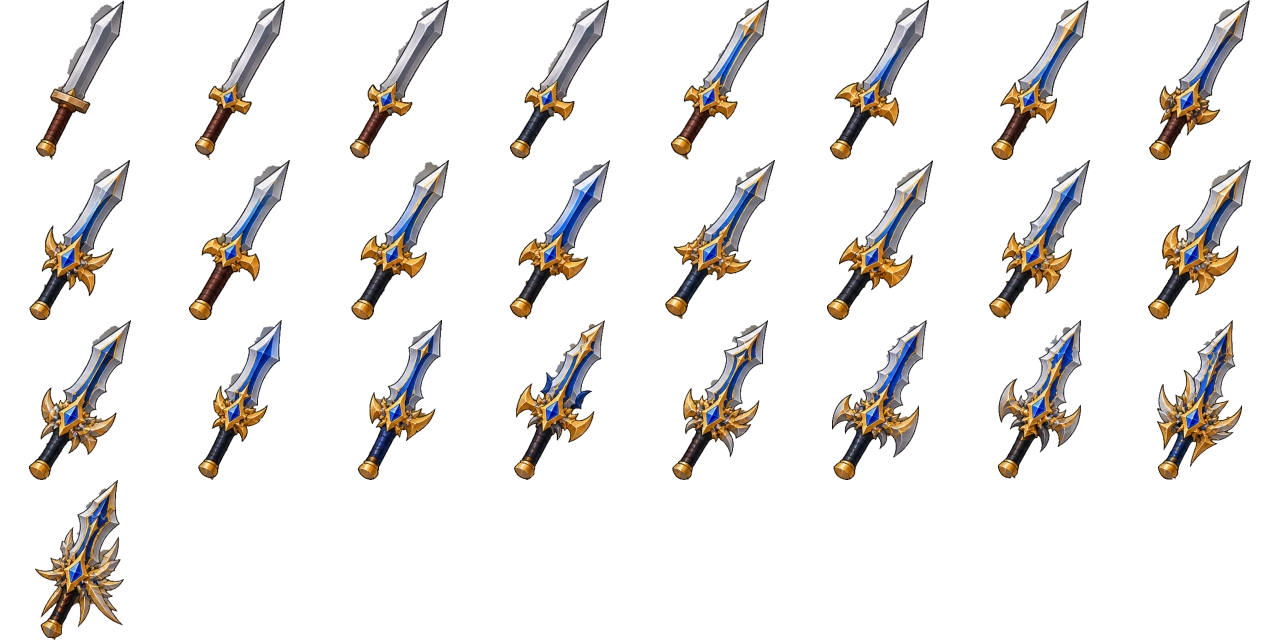
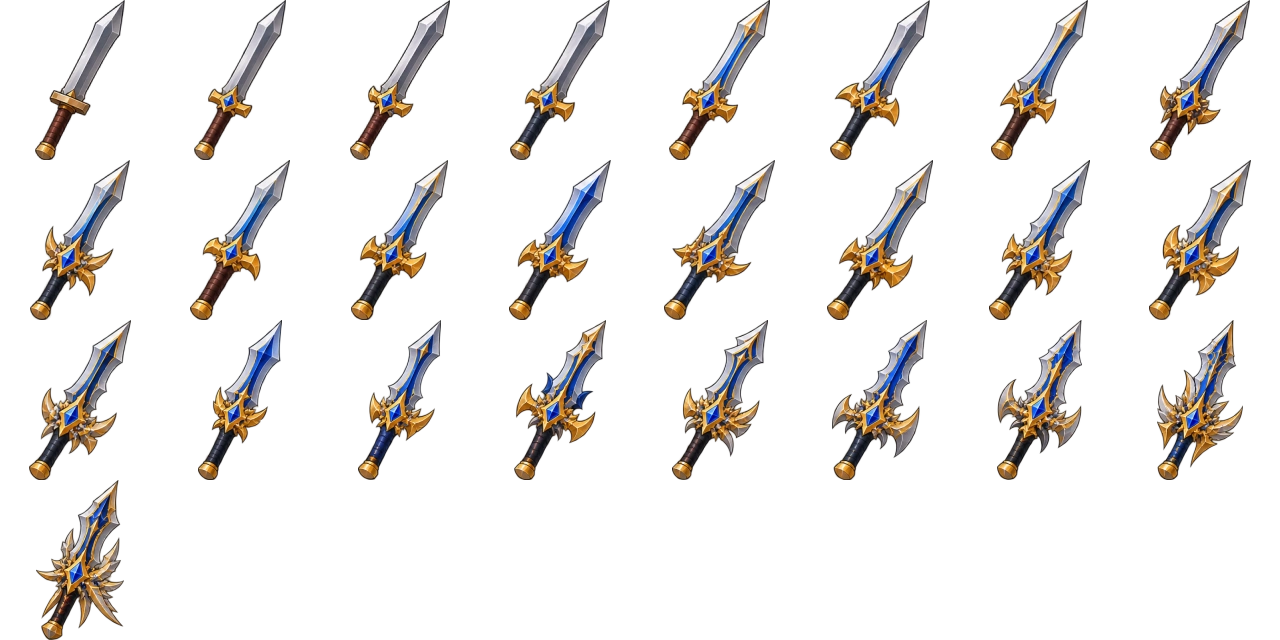
Epic swords: 23 from the epic sheet, Lv.45-70
The board's level plates are misnumbered (two 52s, two 63s, two 69s, a
63 between 57 and 58), so the ladder follows the board's order, which is
the order the art grows in. An epic sword is the common sword of its
level plus 40% ATK (rare is 20%), a faster swing, more crit and
STR/AGI/DEX. They only drop: monsters carry the epics a few levels around
their own at 0.03%, bosses at 10%.

The epic board, and the rare one before it, came with an alpha matte;
the slicer now cuts along it instead of against the painted background,
which also clears the grey haze that sat by the rare blades' tips. A
sword is matched to the plate it ends at, so a tall one from the row
below is no longer taken for the one above it.

Claude-Session: https://claude.ai/code/session_01GHEvd1DiTaDeXZuyLJzC1x

diff --git a/shared/data/items.js b/shared/data/items.js
@@ -321,6 +321,43 @@ export const RARE_SWORDS = {
 };
 Object.assign(ITEMS, RARE_SWORDS);
 
+/* ============ EPIC SWORDS (assets/ui/source/swords_epic.png) ============
+   Twenty-three epic swords, Lv.45 to Lv.70. The board's own level plates are
+   misnumbered (two 52s, two 63s, two 69s, a 63 between 57 and 58), so the
+   ladder follows the board's order, left to right and down, which is also
+   the order the art grows in. An epic sword is the common sword of its level
+   plus two fifths more ATK (a rare one is a fifth), a faster swing, more crit
+   and STR/AGI/DEX. Found only: rarer than rare on the field, a bigger share
+   of a boss's pouch. */
+const EPIC_SWORD = (art, o) => W({ art: 'swords_epic#' + art, wclass: 'sword', range: 47, rarity: 'epic',
+  weight: 46 + Math.round(o.level * 0.6), ...o });
+export const EPIC_SWORDS = {
+  sword_epic_45: EPIC_SWORD(0, { id: 'sword_epic_45', name: 'Amethyst Edge', nameTh: 'ดาบคมอเมทิสต์', level: 45, atk: 98, delay: 0.8, value: 88200, crit: 4, stats: { str: 4, agi: 2, dex: 1 } }),
+  sword_epic_46: EPIC_SWORD(1, { id: 'sword_epic_46', name: 'Violet Oath', nameTh: 'ดาบคำสัตย์ม่วง', level: 46, atk: 99, delay: 0.8, value: 91080, crit: 4, stats: { str: 4, agi: 2, dex: 1 } }),
+  sword_epic_47: EPIC_SWORD(2, { id: 'sword_epic_47', name: 'Duskfang', nameTh: 'ดาบเขี้ยวสนธยา', level: 47, atk: 100, delay: 0.8, value: 94000, crit: 4, stats: { str: 4, agi: 2, dex: 1 } }),
+  sword_epic_48: EPIC_SWORD(3, { id: 'sword_epic_48', name: 'Nightbloom', nameTh: 'ดาบบุปผาราตรี', level: 48, atk: 102, delay: 0.8, value: 97920, crit: 4, stats: { str: 4, agi: 2, dex: 1 } }),
+  sword_epic_50: EPIC_SWORD(4, { id: 'sword_epic_50', name: 'Voidguard', nameTh: 'ดาบองครักษ์ห้วงมืด', level: 50, atk: 104, delay: 0.8, value: 104000, crit: 4, stats: { str: 4, agi: 2, dex: 1 } }),
+  sword_epic_51: EPIC_SWORD(5, { id: 'sword_epic_51', name: 'Twilight Warden', nameTh: 'ดาบผู้พิทักษ์สนธยา', level: 51, atk: 106, delay: 0.8, value: 108120, crit: 4, stats: { str: 4, agi: 2, dex: 1 } }),
+  sword_epic_52: EPIC_SWORD(6, { id: 'sword_epic_52', name: 'Mystic Talon', nameTh: 'ดาบกรงเล็บมนตรา', level: 52, atk: 107, delay: 0.79, value: 111280, crit: 4, stats: { str: 4, agi: 2, dex: 1 } }),
+  sword_epic_53: EPIC_SWORD(7, { id: 'sword_epic_53', name: 'Umbral Crest', nameTh: 'ดาบตราเงามืด', level: 53, atk: 108, delay: 0.79, value: 114480, crit: 4, stats: { str: 5, agi: 2, dex: 1 } }),
+  sword_epic_54: EPIC_SWORD(8, { id: 'sword_epic_54', name: 'Amethyst Reaver', nameTh: 'ดาบอเมทิสต์ผลาญ', level: 54, atk: 110, delay: 0.79, value: 118800, crit: 4, stats: { str: 5, agi: 2, dex: 1 } }),
+  sword_epic_55: EPIC_SWORD(9, { id: 'sword_epic_55', name: 'Shadeborn Blade', nameTh: 'ดาบกำเนิดเงา', level: 55, atk: 111, delay: 0.79, value: 122100, crit: 5, stats: { str: 5, agi: 3, dex: 1 } }),
+  sword_epic_56: EPIC_SWORD(10, { id: 'sword_epic_56', name: 'Eclipse Thorn', nameTh: 'ดาบหนามสุริยคราส', level: 56, atk: 112, delay: 0.79, value: 125440, crit: 5, stats: { str: 5, agi: 3, dex: 1 } }),
+  sword_epic_58: EPIC_SWORD(11, { id: 'sword_epic_58', name: 'Violet Tempest', nameTh: 'ดาบพายุม่วง', level: 58, atk: 115, delay: 0.79, value: 133400, crit: 5, stats: { str: 5, agi: 3, dex: 2 } }),
+  sword_epic_59: EPIC_SWORD(12, { id: 'sword_epic_59', name: 'Abyssal Wing', nameTh: 'ดาบปีกห้วงลึก', level: 59, atk: 116, delay: 0.79, value: 136880, crit: 5, stats: { str: 5, agi: 3, dex: 2 } }),
+  sword_epic_60: EPIC_SWORD(13, { id: 'sword_epic_60', name: 'Dusk Sovereign', nameTh: 'ดาบราชันย์สนธยา', level: 60, atk: 117, delay: 0.79, value: 140400, crit: 5, stats: { str: 5, agi: 3, dex: 2 } }),
+  sword_epic_61: EPIC_SWORD(14, { id: 'sword_epic_61', name: 'Nether Spire', nameTh: 'ดาบยอดแหลมนรก', level: 61, atk: 119, delay: 0.79, value: 145180, crit: 5, stats: { str: 6, agi: 3, dex: 2 } }),
+  sword_epic_62: EPIC_SWORD(15, { id: 'sword_epic_62', name: 'Starless Fang', nameTh: 'ดาบเขี้ยวไร้ดาว', level: 62, atk: 120, delay: 0.79, value: 148800, crit: 5, stats: { str: 6, agi: 3, dex: 2 } }),
+  sword_epic_63: EPIC_SWORD(16, { id: 'sword_epic_63', name: 'Wraithcrown', nameTh: 'ดาบมงกุฎวิญญาณ', level: 63, atk: 121, delay: 0.79, value: 152460, crit: 5, stats: { str: 6, agi: 3, dex: 2 } }),
+  sword_epic_64: EPIC_SWORD(17, { id: 'sword_epic_64', name: 'Amethyst Dragonfang', nameTh: 'ดาบเขี้ยวมังกรอเมทิสต์', level: 64, atk: 122, delay: 0.78, value: 156160, crit: 5, stats: { str: 6, agi: 3, dex: 2 } }),
+  sword_epic_65: EPIC_SWORD(18, { id: 'sword_epic_65', name: 'Void Reaper', nameTh: 'ดาบเคียวห้วงมืด', level: 65, atk: 124, delay: 0.78, value: 161200, crit: 6, stats: { str: 6, agi: 4, dex: 2 } }),
+  sword_epic_67: EPIC_SWORD(19, { id: 'sword_epic_67', name: 'Eventide Lord', nameTh: 'ดาบจ้าวรัตติกาล', level: 67, atk: 126, delay: 0.78, value: 168840, crit: 6, stats: { str: 6, agi: 4, dex: 2 } }),
+  sword_epic_68: EPIC_SWORD(20, { id: 'sword_epic_68', name: 'Phantom Monarch', nameTh: 'ดาบกษัตริย์ภูต', level: 68, atk: 127, delay: 0.78, value: 172720, crit: 6, stats: { str: 6, agi: 4, dex: 2 } }),
+  sword_epic_69: EPIC_SWORD(21, { id: 'sword_epic_69', name: 'Abyss Emperor', nameTh: 'ดาบจักรพรรดิห้วงลึก', level: 69, atk: 129, delay: 0.78, value: 178020, crit: 6, stats: { str: 7, agi: 4, dex: 3 } }),
+  sword_epic_70: EPIC_SWORD(22, { id: 'sword_epic_70', name: 'Celestial Amethyst', nameTh: 'ดาบอเมทิสต์สวรรค์', level: 70, atk: 130, delay: 0.78, value: 182000, crit: 6, stats: { str: 7, agi: 4, dex: 3 } }),
+};
+Object.assign(ITEMS, EPIC_SWORDS);
+
 /** Items that game systems use by role, not by drop table. */
 export const KEY_ITEMS = {
   refineStone: 'runed_whetstone',   // spent on every refine attempt

diff --git a/test/swords.test.js b/test/swords.test.js
@@ -1,19 +1,19 @@
-// The swordsman's two ladders: the common starters and the rare sheet, both
-// on five-level steps from Lv.1 to Lv.120.
+// The swordsman's ladders: the common starters and the rare sheet on
+// five-level steps from Lv.1 to Lv.120, and the epic sheet from Lv.45 to Lv.70.
 import test from 'node:test';
 import assert from 'node:assert/strict';
-import { SWORDS, RARE_SWORDS } from '../shared/data/items.js';
+import { SWORDS, RARE_SWORDS, EPIC_SWORDS } from '../shared/data/items.js';
 import { MONSTERS } from '../shared/data/monsters.js';
 import { SHOPS } from '../shared/data/npcs.js';
 
 const byLevel = (set) => Object.values(set).sort((a, b) => a.level - b.level);
 
-test('both ladders run Lv.1 to Lv.120, climbing, one picture each', () => {
-  for (const [set, n] of [[SWORDS, 24], [RARE_SWORDS, 25]]) {
+test('each ladder runs its span, climbing, one picture each', () => {
+  for (const [set, n, from, to] of [[SWORDS, 24, 1, 120], [RARE_SWORDS, 25, 1, 120], [EPIC_SWORDS, 23, 45, 70]]) {
     const list = byLevel(set);
     assert.equal(list.length, n);
-    assert.equal(list[0].level, 1);
-    assert.equal(list.at(-1).level, 120);
+    assert.equal(list[0].level, from);
+    assert.equal(list.at(-1).level, to);
     assert.equal(new Set(list.map((w) => w.art)).size, n, 'two swords share a picture');
     for (let i = 1; i < list.length; i++) {
       assert.ok(list[i].level > list[i - 1].level, `${list[i].id} is not later than ${list[i - 1].id}`);
@@ -29,6 +29,26 @@ test('a rare sword beats the common sword you could hold at its level', () => {
     assert.ok(r.atk > c.atk, `${r.id} (${r.atk}) is not above ${c.id} (${c.atk})`);
     assert.ok(r.atk < c.atk * 1.5, `${r.id} makes the common ladder pointless`);
   }
+});
+
+test('an epic sword beats the rare one of its level, and is still a sword of that level', () => {
+  const commons = byLevel(SWORDS), rares = byLevel(RARE_SWORDS);
+  for (const e of byLevel(EPIC_SWORDS)) {
+    const r = rares.filter((w) => w.level <= e.level).pop();
+    const c = commons.filter((w) => w.level <= e.level).pop();
+    assert.ok(e.atk > r.atk, `${e.id} (${e.atk}) is not above ${r.id} (${r.atk})`);
+    assert.ok(e.atk < c.atk * 1.6, `${e.id} skips a whole tier`);
+    assert.equal(e.rarity, 'epic');
+  }
+});
+
+test('epic swords only drop, and bosses are the likeliest source', () => {
+  const sold = new Set(Object.values(SHOPS).flatMap((s) => s.stock.map((l) => l.id)));
+  const bossPays = new Set(Object.values(MONSTERS).filter((m) => m.boss).flatMap((m) => m.drops.map((d) => d.id)));
+  const anyDrop = new Set(Object.values(MONSTERS).flatMap((m) => m.drops.map((d) => d.id)));
+  for (const e of Object.values(EPIC_SWORDS)) assert.ok(!sold.has(e.id), `${e.id} is on a shelf`);
+  assert.ok(Object.values(EPIC_SWORDS).some((e) => bossPays.has(e.id)), 'no boss pays an epic sword');
+  assert.ok(Object.values(EPIC_SWORDS).filter((e) => anyDrop.has(e.id)).length >= 5, 'hardly any epic sword can drop');
 });
 
 test('rare swords are found, not bought from the smith', () => {

diff --git a/shared/data/monsters.js b/shared/data/monsters.js
@@ -1,4 +1,4 @@
-import { SWORDS, RARE_SWORDS } from './items.js';
+import { SWORDS, RARE_SWORDS, EPIC_SWORDS } from './items.js';
 // Bestiary.
 //
 // sprite.kind:
@@ -478,7 +478,10 @@ export const MONSTERS = {
 const BAND = (lv) => (lv < 20 ? 's' : lv < 40 ? 'm' : lv < 58 ? 'l' : 'xl');
 const SWORD_LADDER = Object.values(SWORDS).sort((a, b) => a.level - b.level);
 const RARE_LADDER = Object.values(RARE_SWORDS).sort((a, b) => a.level - b.level);
+const EPIC_LADDER = Object.values(EPIC_SWORDS).sort((a, b) => a.level - b.level);
 const bandOf = (ladder, lv) => ladder.filter((w) => w.level <= lv).pop();
+/** The epic swords a monster of this level may carry: the band's own and the ones just around it. */
+const epicsNear = (lv) => EPIC_LADDER.filter((w) => w.level <= lv + 3 && w.level > lv - 6);
 const ITEM_BOOK = { fire: 'book_fire', ice: 'book_ice', wind: 'book_wind', lightning: 'book_lightning',
   earth: 'book_earth', dark: 'book_dark', holy: 'book_holy' };
 const RESIST_OF = { fire: 'fire_resist', ice: 'ice_resist', lightning: 'lightning_resist', wind: 'wind_resist',
@@ -505,6 +508,7 @@ export function potionDrops(m) {
       { id: 'book_royal', chance: 0.05 },
       { id: 'boss_ticket', chance: 0.03 },
       { id: bandOf(RARE_LADDER, m.level)?.id, chance: 0.35 },
+      ...epicsNear(m.level).map((e, _, all) => ({ id: e.id, chance: 0.1 / all.length })),
     ].filter((d) => d.id);
   }
   const out = [
@@ -524,6 +528,9 @@ export function potionDrops(m) {
   if (sword) out.push({ id: sword.id, chance: 0.004 });
   const rare = bandOf(RARE_LADDER, m.level);         // a rare sword is a real find
   if (rare) out.push({ id: rare.id, chance: 0.0012 });
+  // an epic one, a story to tell: any of those a few levels either side of
+  // it, since the epic ladder is finer than the monster list
+  for (const e of epicsNear(m.level)) out.push({ id: e.id, chance: 0.0003 / epicsNear(m.level).length });
   if (m.level >= 20) {
     out.push({ id: 'exp_potion', chance: 0.002 }, { id: 'drop_rate_up', chance: 0.0015 },
       { id: 'item_find', chance: 0.003 }, { id: 'curse_potion', chance: 0.004 });

diff --git a/client/js/renderer.js b/client/js/renderer.js
@@ -266,7 +266,7 @@ const NPC_PLATE = typeof Image !== 'undefined' ? uiImage('npc_plate') : null;
 
 const DIGITS = [];
 if (typeof Image !== 'undefined') {
-  for (const name of ['miss', 'critical', 'levelup', 'potions', 'scrolls', 'swords', 'swords_rare']) uiImage(name);
+  for (const name of ['miss', 'critical', 'levelup', 'potions', 'scrolls', 'swords', 'swords_rare', 'swords_epic']) uiImage(name);
   for (let i = 0; i < 10; i++) DIGITS.push(uiImage('digit_' + i));
 }
 const digitsReady = () => DIGITS.length === 10 && DIGITS.every((d) => d.naturalWidth);

diff --git a/client/js/icons.js b/client/js/icons.js
@@ -38,7 +38,7 @@ function artImage(name) {
   return img;
 }
 /** Atlases: many icons in one file, as equal square cells, `cols` across. */
-const ATLAS = { potions: { cols: 8 }, scrolls: { cols: 8 }, swords: { cols: 6 }, swords_rare: { cols: 8 } };
+const ATLAS = { potions: { cols: 8 }, scrolls: { cols: 8 }, swords: { cols: 6 }, swords_rare: { cols: 8 }, swords_epic: { cols: 8 } };
 /** Paint the sheet art over a canvas now, or as soon as it has loaded. */
 function paintArt(canvas, name) {
   // 'potions#12' is cell 12 of the potions atlas

diff --git a/tools/slice-ui.py b/tools/slice-ui.py
@@ -852,12 +852,17 @@ print('sword sheet done')
 # each sword, so it is modelled - shrink the sheet hard, median it, grow it
 # back, and the thin swords vanish while the gradient and glows stay - and a
 # sword is whatever differs from it. Out: assets/ui/swords_rare.webp.
-def plated_weapons(src, out, cols=8, cell=160, lo=40, hi=90):
-    img = cv2.imread(os.path.join(ROOT, 'assets/ui/source', src))
+def plated_weapons(src, out, cols=8, cell=160, lo=40, hi=90, plate='navy'):
+    raw = cv2.imread(os.path.join(ROOT, 'assets/ui/source', src), cv2.IMREAD_UNCHANGED)
+    img = raw[:, :, :3]
+    # a board that comes already cut out (the epic one) says where the art is
+    # itself; measuring against the painted board is only for those that don't
+    matte = raw[:, :, 3].astype(np.float32) if raw.shape[2] == 4 and raw[:, :, 3].min() < 16 else None
     b, g, r = [img[:, :, i].astype(int) for i in range(3)]
     lum = cv2.cvtColor(img, cv2.COLOR_BGR2GRAY).astype(int)
-    navy = ((b - r > 25) & (lum < 90)).astype(np.uint8)
-    n, lab, st, _ = cv2.connectedComponentsWithStats(navy)
+    # the level plates: navy on the rare sheet, near-black violet on the epic one
+    ink = (b - r > 25) & (lum < 90) if plate == 'navy' else (lum < 70) & (b - g > 20)
+    n, lab, st, _ = cv2.connectedComponentsWithStats(ink.astype(np.uint8))
     plates = [st[i][:4] for i in range(1, n) if st[i, 2] > 70 and 18 < st[i, 3] < 50]
     plates.sort(key=lambda p: (p[1] // 100, p[0]))
     mask = np.zeros(img.shape[:2], np.uint8)
@@ -867,6 +872,9 @@ def plated_weapons(src, out, cols=8, cell=160, lo=40, hi=90):
     small = cv2.resize(clean, (clean.shape[1] // 8, clean.shape[0] // 8), interpolation=cv2.INTER_AREA)
     bg = cv2.resize(cv2.medianBlur(small, 9), (clean.shape[1], clean.shape[0]), interpolation=cv2.INTER_CUBIC)
     d = np.abs(clean.astype(int) - bg.astype(int)).sum(2).astype(np.float32)
+    if matte is not None:
+        d = matte                       # 0..255: lo/hi below become alpha thresholds
+        lo, hi = 128, 250
     solid = (d > lo).astype(np.uint8)
     solid = cv2.morphologyEx(solid, cv2.MORPH_CLOSE, np.ones((3, 3), np.uint8))
     n, lab, st, _ = cv2.connectedComponentsWithStats(solid)
@@ -877,7 +885,8 @@ def plated_weapons(src, out, cols=8, cell=160, lo=40, hi=90):
         best, area = 0, 0
         for i in range(1, n):
             bx, by, bw, bh, a = st[i]
-            if a > area and bx < x + w and bx + bw > x and by + bh > y - 40 and by < y:
+            # ...and ends at the plate, not a taller sword from the row below
+            if a > area and bx < x + w and bx + bw > x and y - 40 < by + bh < y + h + 8 and by < y:
                 best, area = i, a
         bx, by, bw, bh, _ = st[best]
         m = (lab[by:by + bh, bx:bx + bw] == best).astype(np.uint8) * 255
@@ -885,9 +894,14 @@ def plated_weapons(src, out, cols=8, cell=160, lo=40, hi=90):
         cv2.floodFill(ff, np.zeros((bh + 4, bw + 4), np.uint8), (0, 0), 255)
         m = m | cv2.bitwise_not(ff[1:-1, 1:-1])
         # solid inside, and a soft rim where the difference fades out
-        rim = np.clip((d[by:by + bh, bx:bx + bw] - lo) / (hi - lo), 0, 1)
+        rim = (np.clip((d[by:by + bh, bx:bx + bw] - lo) / (hi - lo), 0, 1) if matte is None
+               else matte[by:by + bh, bx:bx + bw] / 255)
         inner = cv2.erode(m, np.ones((3, 3), np.uint8)) > 0
         alpha = np.where(inner, 1.0, rim * (m > 0))
+        if matte is not None:
+            # the matte's own gaps between the spikes are real: keep them open
+            own = cv2.dilate((lab[by:by + bh, bx:bx + bw] == best).astype(np.uint8), np.ones((5, 5), np.uint8))
+            alpha = rim * own
         rgba = cv2.cvtColor(img[by:by + bh, bx:bx + bw], cv2.COLOR_BGR2RGBA)
         rgba[:, :, 3] = (alpha * 255).astype(np.uint8)
         rr, cc = divmod(k, cols)
@@ -897,3 +911,6 @@ def plated_weapons(src, out, cols=8, cell=160, lo=40, hi=90):
 
 
 print('rare swords', plated_weapons('sword_rare_sheet.png', 'swords_rare'))
+# Epic, Lv.45-70: 23 swords on a violet board; several plates are misnumbered,
+# so the order on the board is the order of the ladder (shared/data/items.js)
+print('epic swords', plated_weapons('swords_epic.png', 'swords_epic', plate='violet'))
